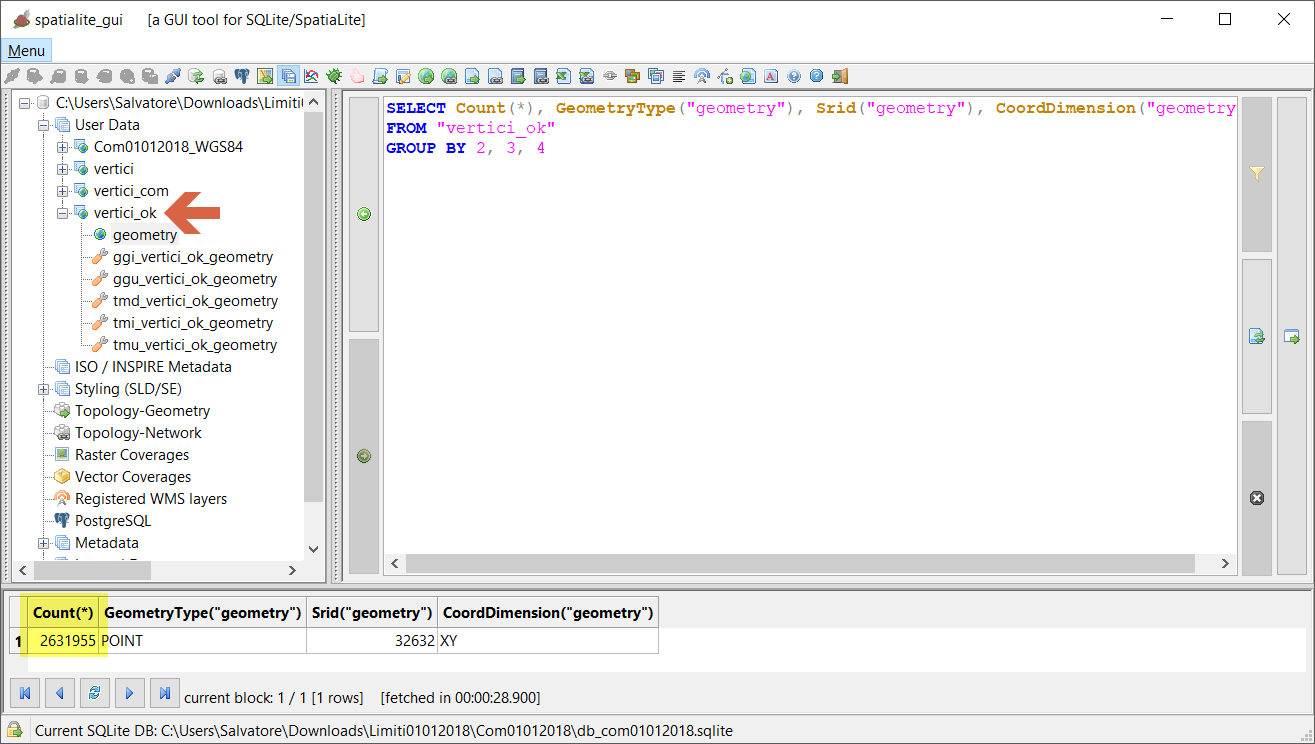
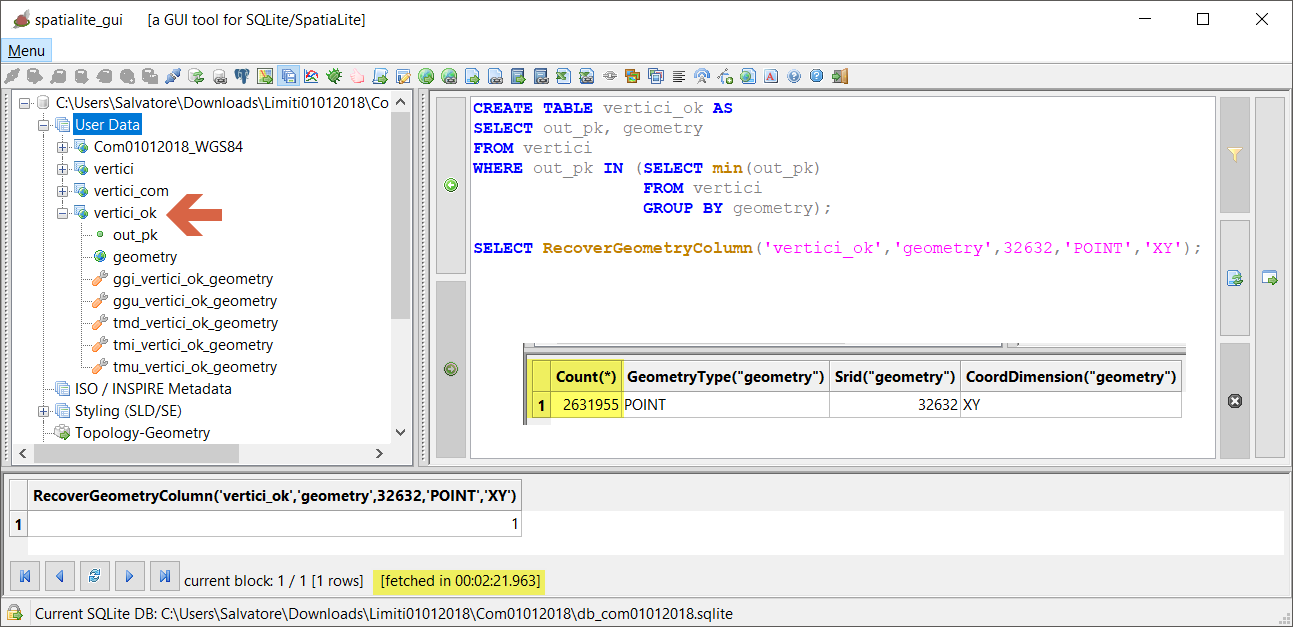
update

diff --git a/prove/Elimina_geom_duplicate.md b/prove/Elimina_geom_duplicate.md
@@ -38,14 +38,15 @@ Elimino le geometrie duplicate:
 
 ```
 -- Creo tabella evitando le geometrie duplicate:
-CREATE TABLE vertici_ok as 
-SELECT distinct geometry
-FROM vertici;
+CREATE TABLE vertici_ok AS
+SELECT out_pk, geometry
+FROM vertici
+WHERE out_pk IN (SELECT min(out_pk) 
+                 FROM vertici
+                 GROUP BY geometry);
+
 SELECT RecoverGeometryColumn('vertici_ok','geometry',32632,'POINT','XY');
 ```
-NB: il **select distinct** NON è preciso (1e-5)
-
-![](../img/elimina_geom_duplicate/spatialite_gui_210_04.png)
 
 ![](../img/elimina_geom_duplicate/spatialite_gui_210_02.png)
 
@@ -56,6 +57,8 @@ NB: il **select distinct** NON è preciso (1e-5)
 ![](../img/elimina_geom_duplicate/pgAmin3_02.png)
 
 ```
+-- crea tabella con geometrie non duplicate
+CREATE TABLE vertici_ok AS
 SELECT DISTINCT ON (ST_AsBinary(geom)) geom 
 FROM vertici_dump;
 ```
@@ -63,10 +66,11 @@ FROM vertici_dump;
 ![](../img/elimina_geom_duplicate/pgAmin3_03.png)
 
 ```
+-- geometrie duplicate
 SELECT * 
 FROM 
 (
-SELECT id, ROW_NUMBER() OVER(PARTITION BY geom ORDER BY id ASC) AS Row,geom 
+SELECT gid, ROW_NUMBER() OVER(PARTITION BY geom ORDER BY gid ASC) AS Row,geom 
 FROM ONLY vertici_dump
 ) dups 
 WHERE dups.Row > 1
@@ -89,7 +93,7 @@ tempo [sec]|programma
 NO|QGIS 2.18.24
 NO|QGIS 3.2.3
 1162|QGIS 3.3 master con debug
-302| SpatiaLite_GUI 2.10 no spatialIndex
-134|pgAdmin 3 con spatialIndex
+82|SpatiaLite_GUI 2.10
+39|pgAdmin 3 con spatialIndex
 ??|mapshaper
 ??|R + RStudio

diff --git a/prove/estrai_vertici.md b/prove/estrai_vertici.md
@@ -49,9 +49,10 @@ SELECT ElementaryGeometries( 'vertici_com' ,'geometry' , 'vertici' ,'out_pk' , '
 ![](../img/pgAmin3_info.png)
 
 ```
+-- crea tabella vertici_dump
 CREATE TABLE vertici_dump AS
-SELECT k."PK_UID", k.geom  
-FROM ( SELECT (ST_DumpPoints(geom)).*, "PK_UID" FROM comuni )k;
+SELECT k.gid, k.geom  
+FROM ( SELECT (ST_DumpPoints(geom)).*, gid FROM com01012018_wgs84 )k;
 ```
 ![](../img/estrai_vertici/pgAmin3_01.png)
 
@@ -62,8 +63,8 @@ tempo [sec]|programma
 123|QGIS 2.18.24
 66|QGIS 3.2.3
 95|QGIS 3.3 master con debug
-340|SpatiaLite_GUI 2.10 no spatialIndex
-20|pgAdmin 3 con spatialIndex
+340|SpatiaLite_GUI 2.10
+21|pgAdmin 3 con spatialIndex
 ??|mapshaper
 ??|R + RStudio
 
